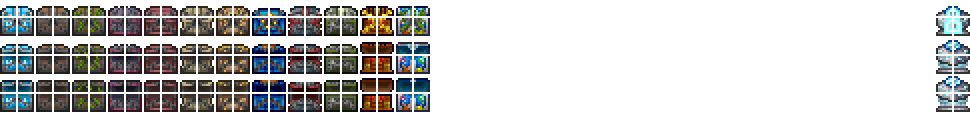
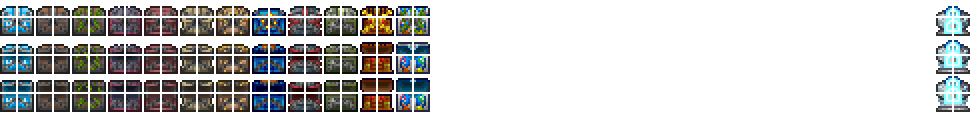
locked martian chest glow

Changed region(s): [[0.9588, 0.6842, 1.0, 0.9211], [0.9588, 0.3684, 1.0, 0.6053]]

diff --git a/Tiles/Furniture/LockedChests.cs b/Tiles/Furniture/LockedChests.cs
@@ -1,9 +1,12 @@
 using Avalon.Common;
 using Avalon.Common.Templates;
 using Microsoft.Xna.Framework;
+using Microsoft.Xna.Framework.Graphics;
+using ReLogic.Content;
 using System.Collections.Generic;
 using Terraria;
 using Terraria.Audio;
+using Terraria.DataStructures;
 using Terraria.ID;
 using Terraria.ModLoader;
 using Terraria.ObjectData;
@@ -37,9 +40,12 @@ namespace Avalon.Tiles.Furniture
 		public override int Dust => DustID.Stone; // todo: give them each unique dusts (if the vanilla equivalent has them)
 		protected override int ChestKeyItemId => ItemID.GoldenKey;
 		public override bool CanBeUnlockedNormally => false;
+		private static Asset<Texture2D>? glowTexture;
 		public override void SetStaticDefaults()
 		{
 			base.SetStaticDefaults();
+
+			glowTexture = ModContent.Request<Texture2D>(Texture + "_Glow");
 
 			for (int i = 0; i < 27; i++) // End at 26 which is the martian chest's position
 			{
@@ -54,6 +60,17 @@ namespace Avalon.Tiles.Furniture
 			if (type > 0)
 			{
 				yield return new Item(type);
+			}
+		}
+
+		public override void DrawEffects(int i, int j, SpriteBatch spriteBatch, ref TileDrawInfo drawData)
+		{
+			if (GetChestType(drawData.tileFrameX / 36) == ItemID.MartianChest)
+			{
+				byte b = (byte)(100f + 150f * Main.martianLight);
+				drawData.glowColor = new Color(b, b, b, 0);
+				drawData.glowSourceRect = new Rectangle(drawData.tileFrameX + drawData.addFrX, drawData.tileFrameY + drawData.addFrY, drawData.tileWidth, drawData.tileHeight);
+				drawData.glowTexture = glowTexture.Value;
 			}
 		}
 
